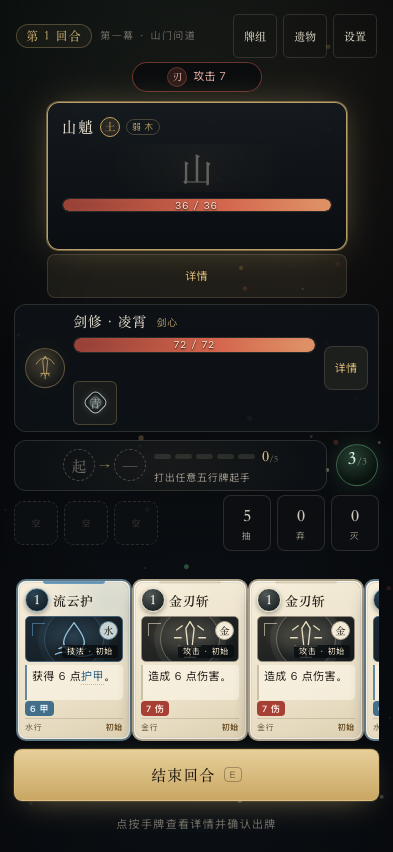
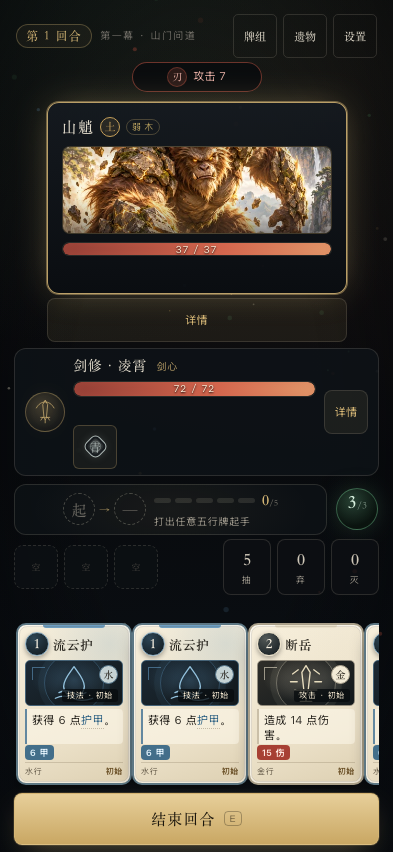
fix ui07

diff --git a/css/style.css b/css/style.css
@@ -447,10 +447,13 @@ button:focus-visible { outline: 2px solid var(--gold); outline-offset: 3px; }
 .enemy-name { font-family: var(--serif); font-size: 16px; letter-spacing: 0.08em; }
 .weak-tag { font-size: 9px; color: #b8a15f; border: 1px solid rgba(216, 185, 119, 0.28); border-radius: 10px; padding: 0 5px; }
 .enemy-art {
-  height: 78px; display: flex; align-items: center; justify-content: center; margin: 6px 0;
-  font-family: var(--serif); font-size: 44px; color: #a9a193; opacity: 0.55; text-shadow: 0 0 22px rgba(255, 255, 255, 0.12);
-  background: radial-gradient(circle at 50% 45%, rgba(216, 185, 119, 0.08), transparent 65%);
+  height: 112px; display: flex; align-items: center; justify-content: center; margin: 8px 0;
+  overflow: hidden; position: relative; border: 1px solid rgba(216, 185, 119, 0.24); border-radius: 8px;
+  font-family: var(--serif); font-size: 44px; color: #a9a193;
+  background: radial-gradient(circle at 50% 45%, rgba(216, 185, 119, 0.12), rgba(0, 0, 0, 0.4));
 }
+.enemy-art img { display: block; width: 100%; height: 100%; object-fit: cover; object-position: center 35%; }
+.enemy-art:has(img)::after { content: ''; position: absolute; inset: 0; pointer-events: none; box-shadow: inset 0 0 22px rgba(3, 6, 10, 0.28); background: linear-gradient(0deg, rgba(6, 9, 13, 0.36), transparent 42%); }
 .enemy-hp { height: 14px; }
 .enemy-sub { display: flex; align-items: center; gap: 6px; margin-top: 7px; flex-wrap: wrap; min-height: 20px; }
 .phase-tag { font-size: 9px; color: #e0a297; border: 1px solid rgba(207, 91, 73, 0.4); padding: 0 6px; border-radius: 9px; }
@@ -884,9 +887,10 @@ button:focus-visible { outline: 2px solid var(--gold); outline-offset: 3px; }
 .comp-enemies { display: grid; grid-template-columns: repeat(auto-fill, minmax(230px, 1fr)); gap: 12px; }
 .comp-enemy { display: flex; align-items: center; gap: 12px; padding: 12px 14px; border: 1px solid var(--line); border-radius: 10px; background: rgba(255, 255, 255, 0.02); }
 .comp-enemy.locked { opacity: 0.45; }
-.comp-enemy-art { width: 52px; height: 52px; border-radius: 50%; display: flex; align-items: center; justify-content: center; font-family: var(--serif); font-size: 24px; color: var(--el, var(--gold)); border: 1px solid var(--line); background: rgba(0, 0, 0, 0.25); }
+.comp-enemy-art { width: 58px; height: 58px; flex: 0 0 58px; overflow: hidden; border-radius: 50%; display: flex; align-items: center; justify-content: center; font-family: var(--serif); font-size: 24px; color: var(--el, var(--gold)); border: 1px solid color-mix(in srgb, var(--el, var(--gold)) 45%, var(--line)); background: rgba(0, 0, 0, 0.25); }
+.comp-enemy-art img { display: block; width: 100%; height: 100%; object-fit: cover; }
 .comp-enemy b { display: block; font-family: var(--serif); font-size: 14px; }
-.comp-enemy span { color: var(--muted); font-size: 11px; }
+.comp-enemy > div > span { color: var(--muted); font-size: 11px; }
 .comp-inspect { width: 100%; color: var(--text); font: inherit; text-align: left; cursor: pointer; }
 .comp-inspect:hover { border-color: var(--gold); }
 
@@ -983,6 +987,8 @@ button:focus-visible { outline: 2px solid var(--gold); outline-offset: 3px; }
 .detail-panel { width: min(520px, 94vw); max-height: min(88svh, 760px); }
 .detail-body { min-height: 0; overflow-y: auto; overflow-wrap: anywhere; padding: 20px 24px; }
 .detail-meta { display: flex; flex-wrap: wrap; align-items: center; gap: 8px; color: var(--muted); font-size: 13px; }
+.detail-enemy-portrait { height: 280px; display: grid; place-items: center; overflow: hidden; margin-bottom: 16px; border: 1px solid color-mix(in srgb, var(--el) 38%, var(--line)); border-radius: 12px; background: radial-gradient(circle, color-mix(in srgb, var(--el) 18%, transparent), rgba(5, 8, 12, 0.8) 72%); color: var(--el); font: 64px var(--serif); }
+.detail-enemy-portrait img { display: block; width: 100%; height: 100%; object-fit: contain; }
 .detail-meta > span:not(.elem-badge) { border: 1px solid var(--line); border-radius: 14px; padding: 3px 10px; }
 .detail-glyph { width: 58px; height: 58px; display: grid; place-items: center; margin-bottom: 12px; border: 1px solid var(--line-strong); border-radius: 12px; color: var(--gold); font: 28px var(--serif); }
 .detail-text, .card-detail-text { margin: 14px 0; color: var(--text); font-size: 16px; line-height: 1.75; white-space: normal; }
@@ -1108,7 +1114,7 @@ body.zhoutian-flash::after {
 @media (max-height: 780px) {
   .combat-screen { padding-top: 6px; }
   .enemy-zone { min-height: 200px; }
-  .enemy-art { height: 60px; font-size: 36px; }
+  .enemy-art { height: 82px; font-size: 36px; }
   .enemy-unit { padding-top: 38px; }
   .hand-zone { min-height: 218px; }
   .hand { min-height: 192px; padding-top: 22px; }
@@ -1197,7 +1203,8 @@ body.zhoutian-flash::after {
   .enemy-info-btn { display: block; }
   .intent { min-width: 130px; font-size: 11px; }
   .intent-detail { font-size: 10px; }
-  .enemy-art { height: 48px; font-size: 34px; }
+  .enemy-art { height: 88px; font-size: 34px; }
+  .enemy-zone.multi .enemy-art { height: 76px; }
   .enemy-name { font-size: 15px; }
   .enemy-sub { min-height: 18px; }
 

diff --git a/js/ui.js b/js/ui.js
@@ -7,6 +7,14 @@
   const TYPE_NAMES = { attack: '攻击', skill: '技法', power: '功法', curse: '禁制', status: '业障' };
   const CHAR_GLYPHS = { sword: '剑', alchemist: '丹', monk: '体' };
   const CHAR_PORTRAITS = { sword: 'assets/characters/sword.webp', alchemist: 'assets/characters/alchemist.webp', monk: 'assets/characters/monk.webp' };
+  const ENEMY_PORTRAITS = {};
+  for (const [act, pool] of Object.entries(D.encounters)) {
+    for (const encounter of [...pool.normal, ...pool.elite, pool.boss]) {
+      for (const enemy of encounter.enemies) {
+        ENEMY_PORTRAITS[enemy.id] = `assets/monsters/${act.padStart(2, '0')}/${enemy.id}.webp`;
+      }
+    }
+  }
   const CHAR_SIGILS = {
     sword: '<path d="M50 8 58 23 54 66 50 73 46 66 42 23Z M35 65h30 M42 65l-6 9m22-9 6 9M50 73v10"/><path d="M21 34c8-14 17-19 29-20m29 20c-8-14-17-19-29-20"/>',
     alchemist: '<path d="M43 12h14m-11 0v19L25 69c-4 7 0 13 8 13h34c8 0 12-6 8-13L54 31V12M34 58h32"/><path d="M42 68c7-12 14-12 20-1M49 75c-3-9-1-15 5-20"/>',
@@ -38,6 +46,10 @@
 
   function esc(s) {
     return String(s == null ? '' : s).replace(/[&<>"']/g, c => ({ '&': '&amp;', '<': '&lt;', '>': '&gt;', '"': '&quot;', "'": '&#39;' }[c]));
+  }
+  function enemyPortrait(id, name, loading = 'lazy') {
+    const src = ENEMY_PORTRAITS[id];
+    return src ? `<img src="${esc(src)}" alt="" loading="${loading}" decoding="async">` : esc(name.slice(0, 1));
   }
   function sleep(ms) { return new Promise(r => setTimeout(r, ms)); }
   function hpPct(cur, max) { return Math.max(0, Math.min(100, Math.round(cur / Math.max(1, max) * 100))); }
@@ -1235,7 +1247,7 @@
             ${elemBadge(e.element)}
             ${weak ? `<span class="weak-tag" title="相克弱点">弱 ${elem(weak).glyph}</span>` : ''}
           </div>
-          <div class="enemy-art">${esc(e.name.slice(0, 1))}</div>
+          <div class="enemy-art">${enemyPortrait(e.id, e.name, 'eager')}</div>
           ${hpBarHTML(e.hp, e.maxHp, 'enemy-hp')}
           <div class="enemy-sub">
             ${e.block > 0 ? `<span class="block-pill">甲 ${e.block}</span>` : ''}
@@ -1512,7 +1524,7 @@
         body = `<div class="comp-enemies">${Object.values(D.enemies).map(e => {
           const seen = m.seenEnemies.includes(e.id);
           return `<${seen ? 'button' : 'div'} class="comp-enemy ${seen ? 'comp-inspect' : 'locked'}" ${seen ? `data-action="inspect-enemy" data-id="${esc(e.id)}"` : ''}>
-            <span class="comp-enemy-art" style="--el:${elem(e.element).color}">${seen ? esc(e.name.slice(0, 1)) : '？'}</span>
+            <span class="comp-enemy-art" style="--el:${elem(e.element).color}">${seen ? enemyPortrait(e.id, e.name) : '？'}</span>
             <div><b>${seen ? esc(e.name) : '未识之敌'}</b>${seen ? `<span>${elemBadge(e.element)} ${e.boss ? '幕主' : e.elite ? '精英' : '寻常'}</span>` : '<span>尚未交手。</span>'}</div>
           </${seen ? 'button' : 'div'}>`;
         }).join('')}</div>`;
@@ -1608,7 +1620,8 @@
         const live = this.state && this.state.combat && this.state.combat.enemies[d.index] && this.state.combat.enemies[d.index].id === d.id ? this.state.combat.enemies[d.index] : null;
         const weak = weakElement(e.element);
         const intent = live ? E.getEnemyIntent(this.state, live) : null;
-        body = `<div class="detail-meta">${elemBadge(e.element)}<span>${e.boss ? '幕主' : e.elite ? '精英' : '寻常敌人'}</span>${live ? `<span>生命 ${live.hp} / ${live.maxHp}</span><span>护甲 ${live.block}</span>` : ''}</div>
+        body = `<div class="detail-enemy-portrait" style="--el:${elem(e.element).color}">${enemyPortrait(e.id, e.name, 'eager')}</div>
+          <div class="detail-meta">${elemBadge(e.element)}<span>${e.boss ? '幕主' : e.elite ? '精英' : '寻常敌人'}</span>${live ? `<span>生命 ${live.hp} / ${live.maxHp}</span><span>护甲 ${live.block}</span>` : ''}</div>
           <p class="detail-note">${weak ? `弱点：${elem(weak).name}行攻击可破甲并增伤` : '无五行弱点'}</p>
           ${intent ? `<h3>当前意图 · ${esc(intent.name)}</h3><p class="detail-text">${esc(intent.label)}</p>` : ''}
           <h3>招式</h3><div class="detail-list">${Object.values(e.moves).map(m => `<span><b>${esc(m.name)}</b>　${esc([m.damage ? `伤害 ${m.damage}${m.hits > 1 ? ' × ' + m.hits : ''}` : '', m.block ? `护甲 ${m.block}` : '', m.heal ? `回复 ${m.heal}` : '', statusList(m.debuffs), statusList(m.buffs), ...(m.addCards || []).map(x => `塞入 ${x.count || 1} 张${D.cardMap[x.id] ? D.cardMap[x.id].name : '业障'}`)].filter(Boolean).join(' · ') || '特殊效果')}</span>`).join('')}</div>

diff --git a/test/mobile-details.test.js b/test/mobile-details.test.js
@@ -139,6 +139,31 @@ test('图鉴有角色与丹药入口，敌人和遗物可点开说明', () => {
   assert.match(ui.compendiumHTML(), /data-action="inspect-relic"/);
 });
 
+test('三幕怪物立绘在战斗、已解锁图鉴和详情中显示，未解锁图鉴隐藏立绘', () => {
+  const ui = makeUI();
+  const expected = new Map();
+  for (const [act, pool] of Object.entries(D.encounters)) {
+    for (const encounter of [...pool.normal, ...pool.elite, pool.boss]) {
+      for (const enemy of encounter.enemies) expected.set(enemy.id, `assets/monsters/${String(act).padStart(2, '0')}/${enemy.id}.webp`);
+    }
+  }
+  assert.equal(expected.size, Object.keys(D.enemies).length);
+  for (const [id, art] of expected) {
+    assert.ok(fs.existsSync(path.join(__dirname, '..', art)), `${id} 的图片文件缺失`);
+    E.startCombat(ui.state, { enemies: [{ id }] }, 'combat');
+    assert.ok(ui.enemyHTML(ui.state.combat.enemies[0], 0, 0).includes(`src="${art}"`), `${id} 战斗立绘缺失`);
+    ui.detail = { kind: 'enemy', id };
+    assert.ok(ui.detailHTML().includes(`src="${art}"`), `${id} 详情立绘缺失`);
+  }
+  ui.screen = 'compendium';
+  ui.compTab = 'enemies';
+  ui.meta.seenEnemies = ['shan_xiao'];
+  const compendium = ui.compendiumHTML();
+  assert.match(compendium, /src="assets\/monsters\/01\/shan_xiao.webp"/);
+  assert.doesNotMatch(compendium, /src="assets\/monsters\/03\/tai_xu.webp"/);
+  assert.match(compendium, /未识之敌/);
+});
+
 test('敌人详情显示招式附加的业障，关闭卡牌详情返回原面板', () => {
   const ui = makeUI();
   ui.action('inspect-enemy', { dataset: { id: 'chi_ba' } });
